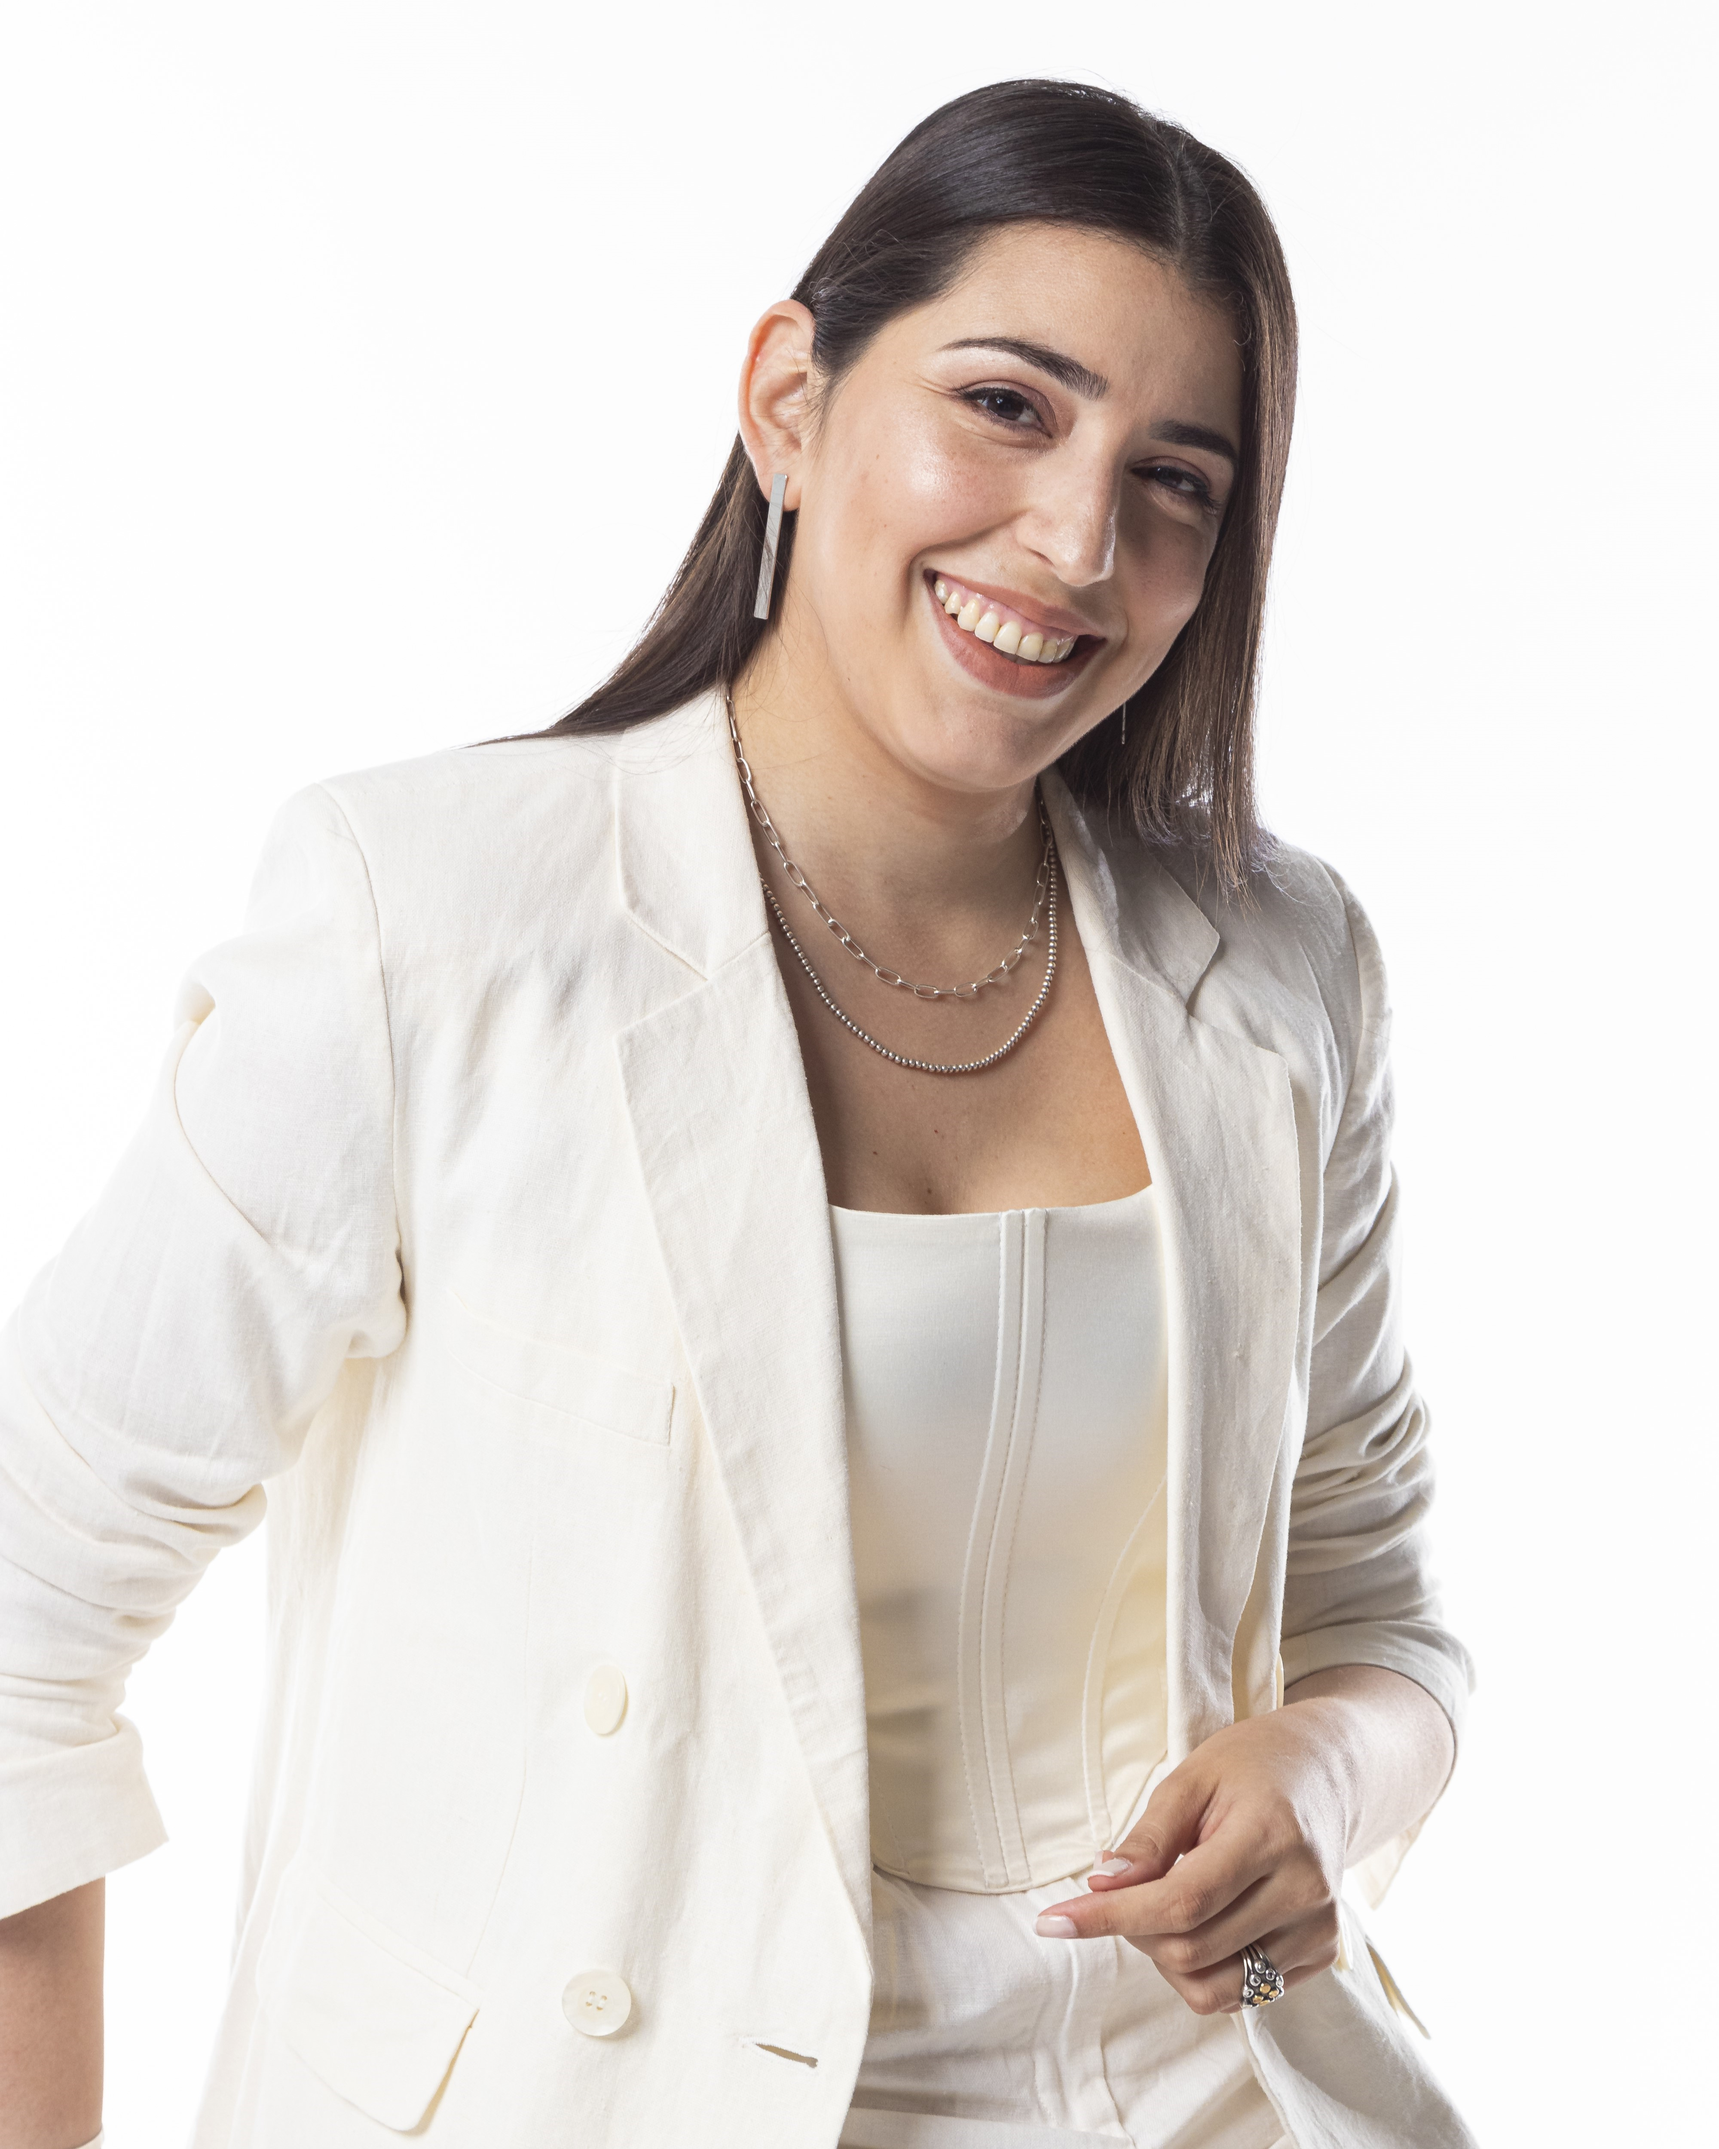
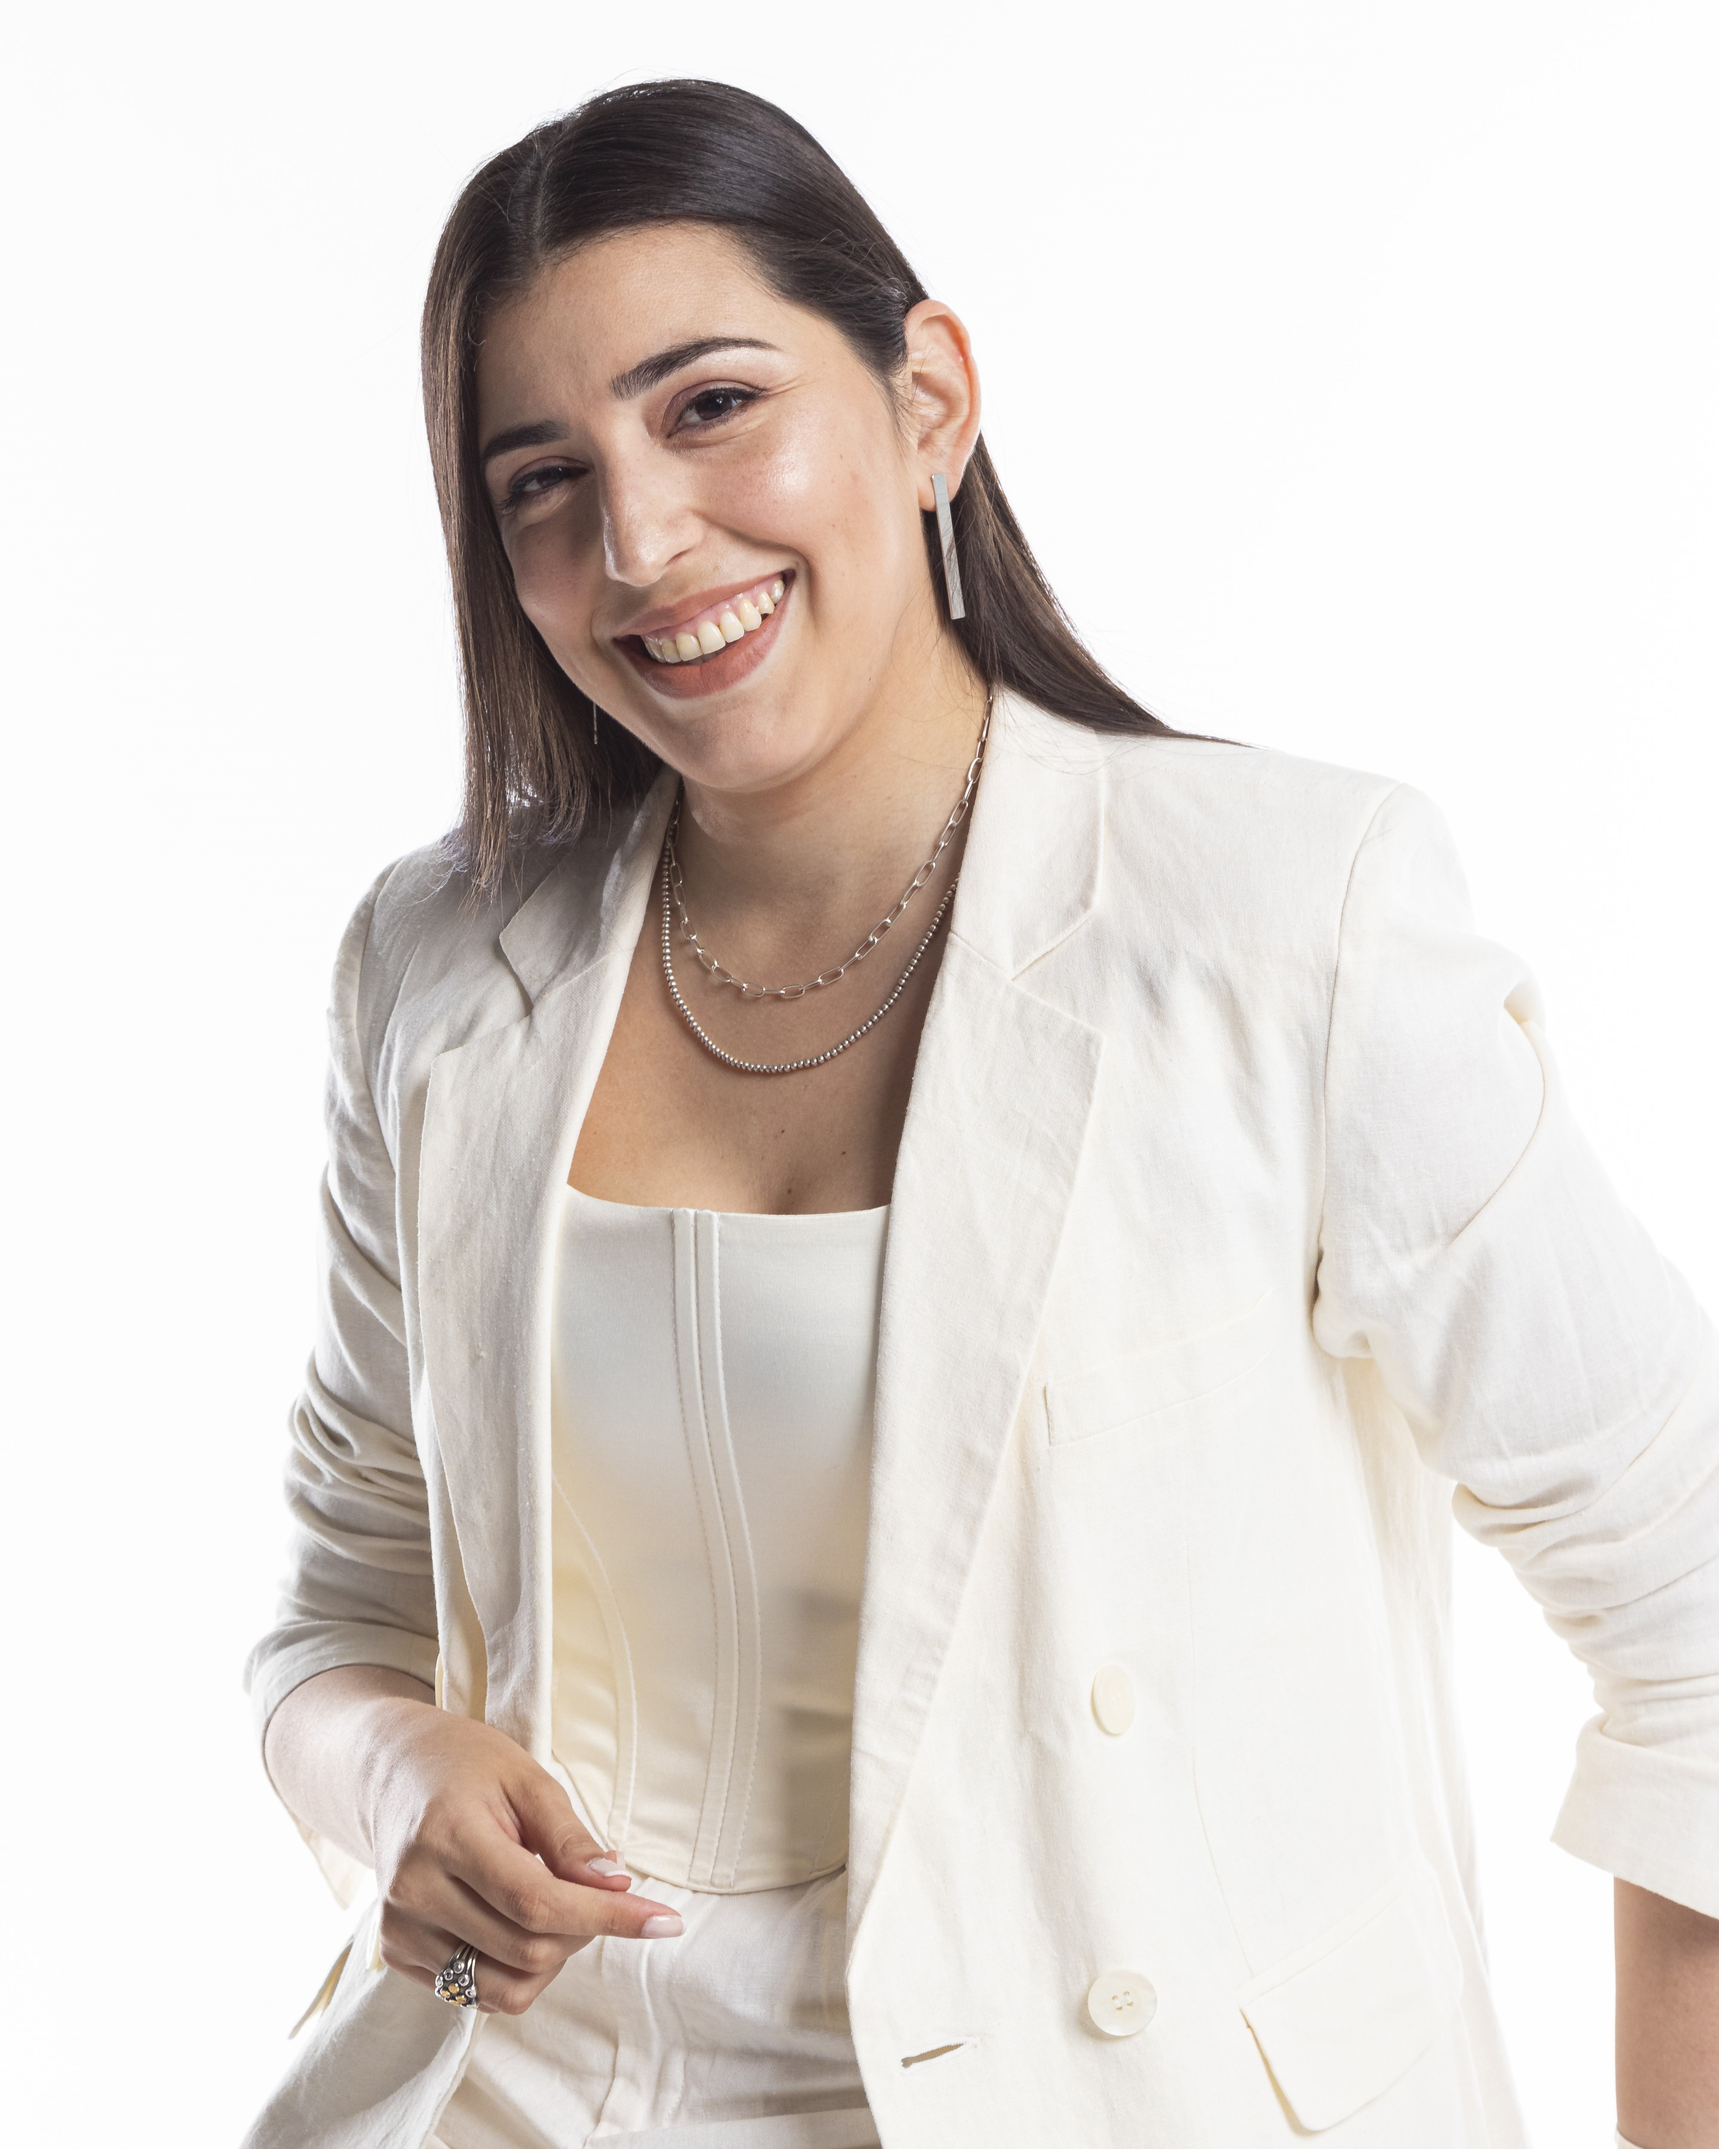
correccion con cliente

diff --git a/src/App.css b/src/App.css
@@ -71,14 +71,15 @@ font-family: 'Raleway', sans-serif;  ////textos */
 
 .titulo-principal{
   font-family: 'Playfair Display', serif;
-  font-size: 3rem;
+  font-style: italic;
+  font-size: 4rem;
   text-align: center;
   padding: 5%;
-  animation: caida 1.5s ease-in-out;
+  animation: caida 1.8s ease-in-out;
 }
 
 .texto-home{
-  margin-bottom: 50px;
+  margin-bottom: 100px;
 }
 
 .div-frase{
@@ -96,7 +97,7 @@ font-family: 'Raleway', sans-serif;  ////textos */
 }
 
 .home-div{
-  margin-top: 50px;
+  margin-top: 100px;
 }
 
 .home-titulo{
@@ -146,7 +147,8 @@ font-family: 'Raleway', sans-serif;  ////textos */
   text-align: center;
   margin-top: 5%;
   font-family: 'Playfair Display', serif;
-  font-size: 1.5rem;
+  font-size: 1.8rem;
+  font-style: italic;
 }
 
 .div-carrusel{
@@ -266,7 +268,7 @@ font-family: 'Raleway', sans-serif;  ////textos */
 .info-texto{
   text-align: justify;
   font-family: 'Raleway', sans-serif;
-  font-size: 1.1rem;
+  font-size: 1.3rem;
   color: black;
 }
 
@@ -289,8 +291,8 @@ font-family: 'Raleway', sans-serif;  ////textos */
 }
 
 .div-mensaje{
-  margin-top: 3%;
-  margin-bottom: 3%;
+  margin-top: 0%;
+  margin-bottom: 7%;
   display: flex;
   flex-direction: row;
   justify-content: center;
@@ -300,6 +302,7 @@ font-family: 'Raleway', sans-serif;  ////textos */
 
 .div-mensaje h4{
   font-family: 'Playfair Display', sans-serif;
+  font-size: 2.2rem;
 }
 
 .icono-mensaje{
@@ -314,13 +317,14 @@ font-family: 'Raleway', sans-serif;  ////textos */
   justify-content: space-between;
   height: 500px;
   align-items: center;
-  margin-bottom: 100px;
+  margin-bottom: 200px;
 }
 
 .sobremi-item{
   width: 60%;
   animation: caida 1.5s ease-in-out;
   padding: 2%;
+  margin-top: 180px;
 }
 
 .sobremi-item1{
@@ -328,7 +332,7 @@ font-family: 'Raleway', sans-serif;  ////textos */
 }
 
 .sobremi-item1 .imagen-portada{
-  width: 100%;
+  width: 90%;
 }
 
 .sobremi-item h3{
@@ -352,22 +356,28 @@ font-family: 'Raleway', sans-serif;  ////textos */
 
 .imagen-portada{
   width: 75%;
-  margin: 0 auto;
-}
-
-.titulo-sobremi{
-  font-family: 'Playfair Display', sans-serif;
-  text-align: start;
-  font-size: 2.5rem;
+  margin-top: 30%;
 }
 
 .texto-sobremi{
   margin: auto;
-  width: 80%;
+  margin-top: 50px;
+}
+
+.texto-sobremi .titulo-sobremi{
+  font-family: 'Playfair Display', sans-serif;
+  text-align: center;
+  font-size: 2.5rem;
+  margin-bottom: 2%;
+}
+
+
+.texto-sobremi p {
   text-align: justify;
   font-family:'Raleway', sans-serif;
-  margin-top: 50px;
   font-size: 1.5rem;
+  width: 90%;
+  margin: auto;
 }
 
 .div-botones-sobremi{
@@ -384,7 +394,6 @@ font-family: 'Raleway', sans-serif;  ////textos */
   margin-top: 50px;
   margin-bottom: 50px;
 }
-
 
 /* CONTACTO */
 .div-contacto .h2-contacto{
@@ -453,7 +462,7 @@ font-family: 'Raleway', sans-serif;  ////textos */
 
   .titulo-principal{
     margin-top: 30px;
-    font-size: 2.5rem;
+    font-size: 3.5rem;
   }
 
   .home-img{
@@ -523,6 +532,15 @@ font-family: 'Raleway', sans-serif;  ////textos */
   .div-mensaje{
     margin-top: 20px;
     margin-bottom: 50px;
+  }
+
+  .div-mensaje h4{
+    font-size: 2rem;
+  }
+
+  .desplegable-texto{
+    font-size: 1.3rem;
+    color: black;
   }
   
   .titulo-sobremi{
@@ -608,6 +626,8 @@ font-family: 'Raleway', sans-serif;  ////textos */
     font-size: 1.7rem;
   }
 
+  /* SOBRE MI */
+
   .div-sobremi{
     display: flex;
     flex-direction: column;
@@ -622,33 +642,35 @@ font-family: 'Raleway', sans-serif;  ////textos */
     width: 100%;
     animation: caida 1.5s ease-in-out;
     padding: 1%;
+    margin-top: 5px;
   }
   
   .sobremi-item1{
-    width: 80%;
+    width: 90%;
   }
   
   .sobremi-item1 .imagen-portada{
     width: 100%;
+    margin-top: 15%;
   }
   
   .sobremi-item h3{
     font-family: 'Playfair Display', sans-serif;
     text-align: center;
-    font-size: 3.5rem;
+    font-size: 3.8rem;
     font-style: italic;
   }
   
   .sobremi-item h4{
     font-family: 'Playfair Display', sans-serif;
     text-align: center;
-    font-size: 1.2rem;
+    font-size: 1.9rem;
   }
   
   .sobremi-item h5{
     font-family: 'Playfair Display', sans-serif;
     text-align: center;
-    font-size: 1rem;
+    font-size: 1.3rem;
   }
   
   .imagen-portada{

diff --git a/src/components/Sobremi.jsx b/src/components/Sobremi.jsx
@@ -2,7 +2,7 @@ import React from 'react';
 import Container from 'react-bootstrap/Container';
 import Row from 'react-bootstrap/Row';
 import Col from 'react-bootstrap/Col';
-import portada from './assets/home1.jpg'
+import sobremi from './assets/sobreminueva.jpg'
 import { Link } from 'react-router-dom';
 
 export const Sobremi = () => {
@@ -14,14 +14,17 @@ export const Sobremi = () => {
             <div className='sobremi-item'>
              <h3>¡Hola Baby!</h3>
              <h4>Soy Valentina Aballay</h4>
-             <h5>Diseñadora de Indumentaria y Textil, Asesora de imagen y Productora de moda</h5>
+             <h5>Asesora de imagen, 
+              <br />
+              Diseñadora de Indumentaria,
+              <br />
+               y Productora de moda</h5>
             </div>
             <div className='sobremi-item1'>
-             <img src={portada} className='imagen-portada' alt="Img Portada Sobre mi" />
+             <img src={sobremi} className='imagen-portada' alt="Img Portada Sobre mi" />
             </div>
           </div>
             
-          {/* <img src={portada1} alt="Portada Sobre Mi" className='imagen-portada w-100'/> */}
         </Col>
         <Col xs={12}>
         <div className='texto-sobremi'>

diff --git a/src/components/Inicio.jsx b/src/components/Inicio.jsx
@@ -2,7 +2,7 @@ import React from 'react'
 import Container from 'react-bootstrap/Container';
 import Row from 'react-bootstrap/Row';
 import Col from 'react-bootstrap/Col';
-import home from './assets/valentina1.jpg'
+import home from './assets/home.jpg'
 import home1 from './assets/relleno.jpg'
 import marmol from './assets/marmol.jpg'
 import { Link } from 'react-router-dom';
@@ -11,7 +11,9 @@ import Carousel from 'react-bootstrap/Carousel';
 export const Inicio = () => {
   return (
     <div>
-      <h1 className='titulo-principal'>Vestirnos para el exito</h1>
+      <h1 className='titulo-principal'>Vestirnos para
+      <br />
+       el éxito</h1>
       <div className='div-container'>
        <Container>
         <div className='texto-home'>
@@ -71,7 +73,7 @@ export const Inicio = () => {
       </div>
 
       <div className='div-frase'>
-        <p className='home-titulo1'>Vale Asesorias es un lugar para conocerte, entender tu belleza y relucir tu esencia, llevandola a su maximo potencial...</p>
+        <p className='home-titulo1'>Vale Asesorias es un lugar para conocerte, entender tu belleza y relucir tu esencia, llevandola a su maximo potencial.</p>
       </div>
     </div>
   )

diff --git a/src/components/Footer.jsx b/src/components/Footer.jsx
@@ -1,7 +1,4 @@
 import React from 'react'
-import instagram from './assets/instagram.png';
-import whatsapp from './assets/whatsapp.png';
-import gmail from './assets/gmail.png';
 
 export const Footer = () => {
   return (
@@ -9,14 +6,18 @@ export const Footer = () => {
     <div className='footer'>
       <div className='footer-item'>
         <p className='footer-item-texto'>Valentina Aballay</p>
-        <p>Diseño de Indumentaria y Textil, Asesoria de Imagen, Produccion de Moda</p>
-        <p>Córdoba, Argentina.</p>
+        <p>Diseño de Indumentaria y Textil
+          <br />
+          Asesoria de Imagen
+          <br />
+          Produccion de Moda</p>
+        <p>Córdoba, Argentina, 2023.</p>
       </div>
       <div className='footer-item'>
         <p className='footer-item-texto'>Contactame</p>
         <p>@vale.asesorias</p>
         <p>asesoria.aballay@gmail.com</p>
-        <p>349-1506441</p>
+        <p>+549 3491 506441</p>
       </div>
     </div>
     </>

diff --git a/public/index.html b/public/index.html
@@ -2,7 +2,6 @@
 <html lang="en">
   <head>
     <meta charset="utf-8" />
-    <!-- <link rel="icon" href="%PUBLIC_URL%/favicon.ico" /> -->
     <meta name="viewport" content="width=device-width, initial-scale=1" />
     <meta name="theme-color" content="#000000" />
     <meta
